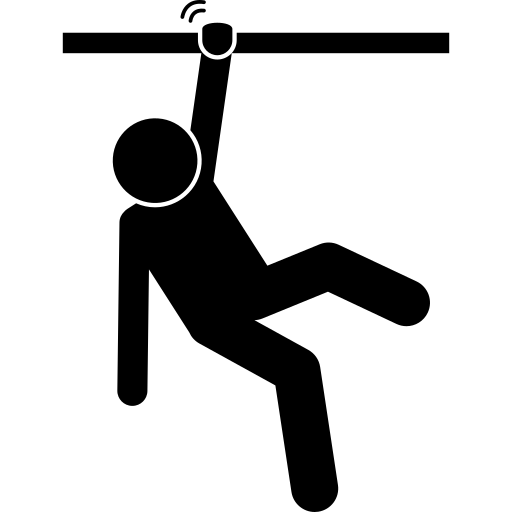
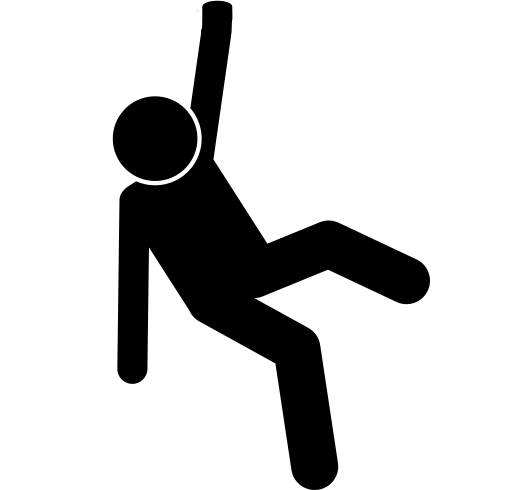
boneco sem a barra

diff --git a/secoes/ia/ia.css b/secoes/ia/ia.css
@@ -3,13 +3,13 @@
 
 @keyframes balancar {
     0% {
-      transform: translateY(-17px) rotate(0deg);
+      transform: rotate(0deg);
     }
     50% {
-      transform: translateY(-17px) rotate(10deg);
+      transform: rotate(10deg);
     }
     100% {
-      transform: translateY(-17px) rotate(0deg);
+      transform: rotate(0deg);
     }
   }
 
@@ -25,7 +25,7 @@
 }
 
 body {
-    width: 1920px
+    width: 1920px;
 }
 
 .container {
@@ -55,7 +55,14 @@ body {
 .puxador img {
     height: 100px;
     width: 100px;
-    transform: translateY(-15px);
     animation: balancar 3s infinite ease-in-out;
     transform-origin: top center;
+}
+
+.insight_ia {
+    display: flex;
+    background-color: blue;
+    width: 1300px;
+    height: 650px;
+    margin: auto;
 }

diff --git a/secoes/ia/ia.html b/secoes/ia/ia.html
@@ -10,6 +10,11 @@
     <div class="container">
         <p>Por que utilizar Inteligências Artificiais?</p>
     </div>
+
+    <div class="insight_ia">
+
+    </div>
+
     <div class="puxador">
         <img src="../../midia/pendurado.png">
     </div>

diff --git a/secoes/carrossel/carrossel.css b/secoes/carrossel/carrossel.css
@@ -57,6 +57,7 @@
 }
 .slider > i{
     font-size: 100px;
+    transition: ease 0.3s;
 }
 .slider > i:hover{
     transform: scale(1.1);
